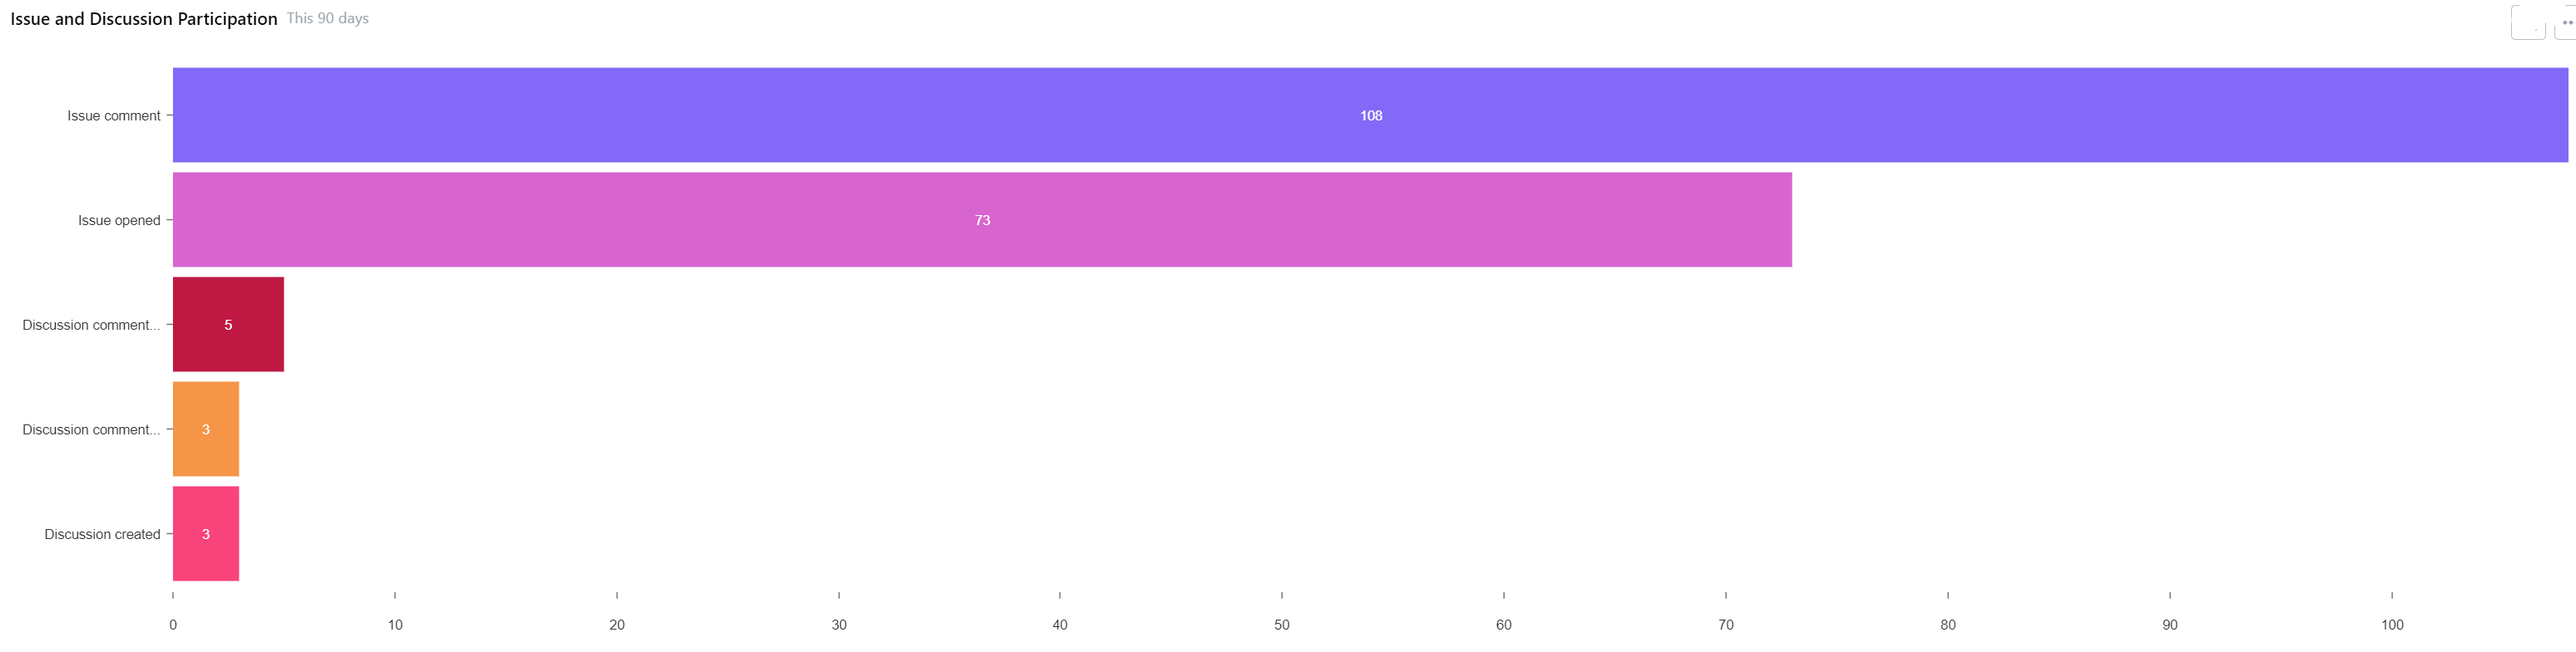
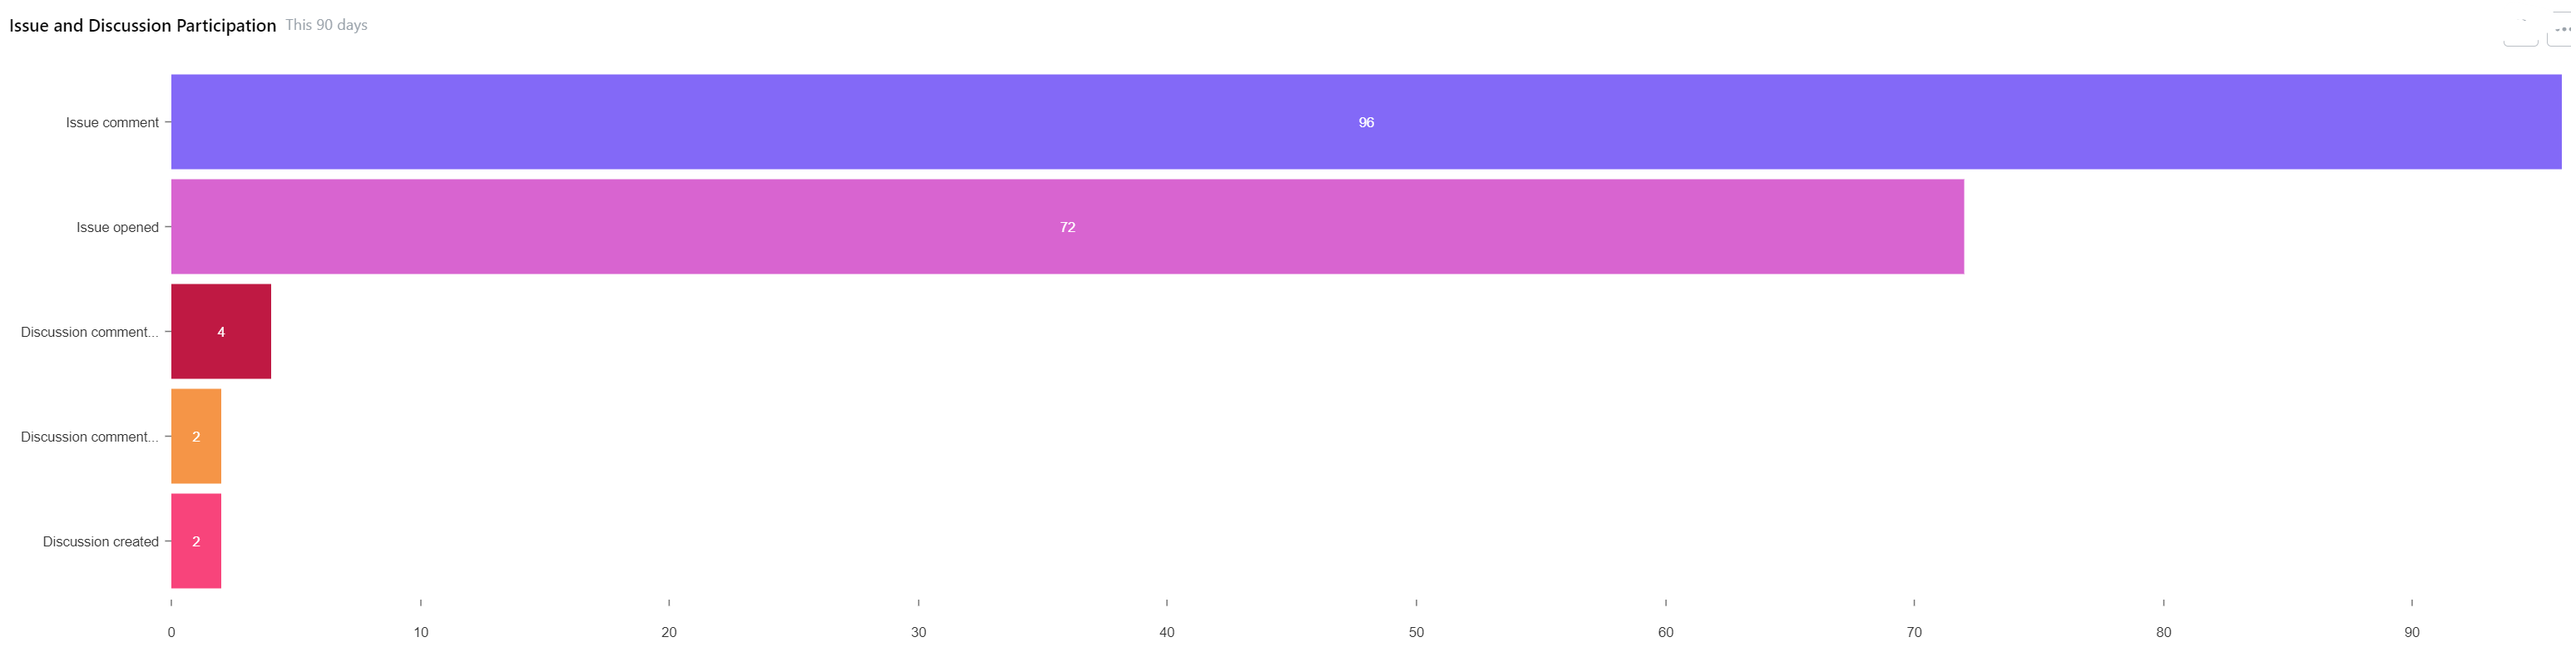
July extract. fixes Create July Extract #5

diff --git a/README.md b/README.md
@@ -1,7 +1,7 @@
 # open-source-metrics
 Various metrics on some of our open source project - _Work-in-Progress_
 
-📅 Extracted on June 16th 2023
+📅 Extracted on July 27th 2023
 
 # Swagger Projects Combined
 
